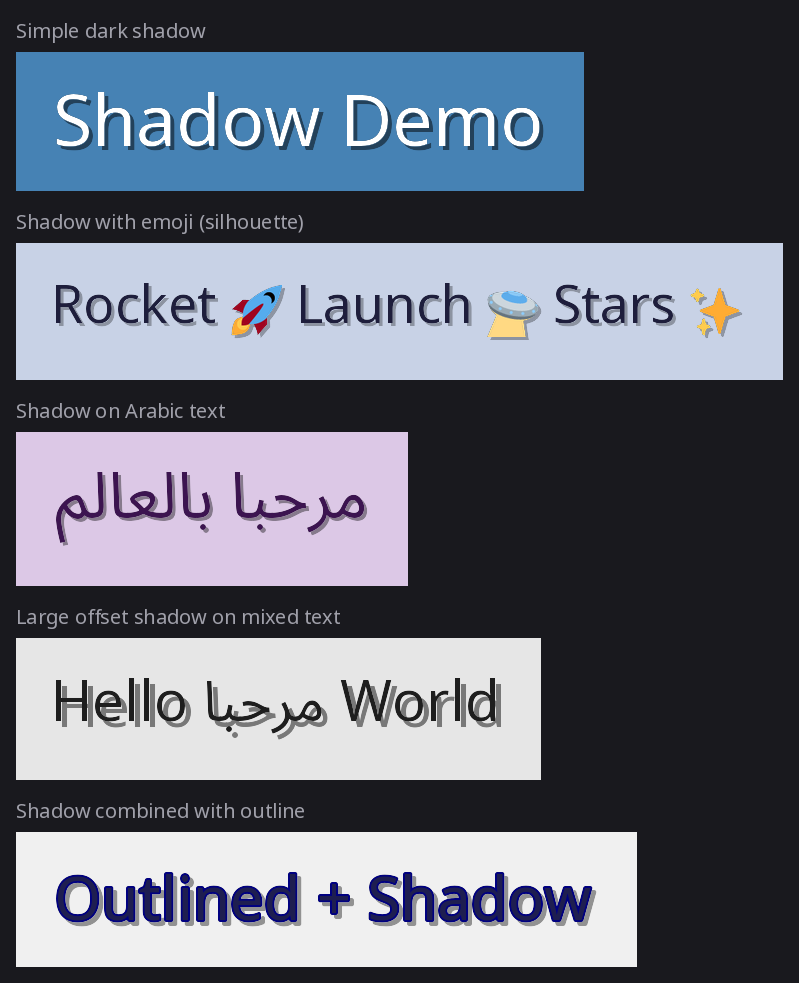
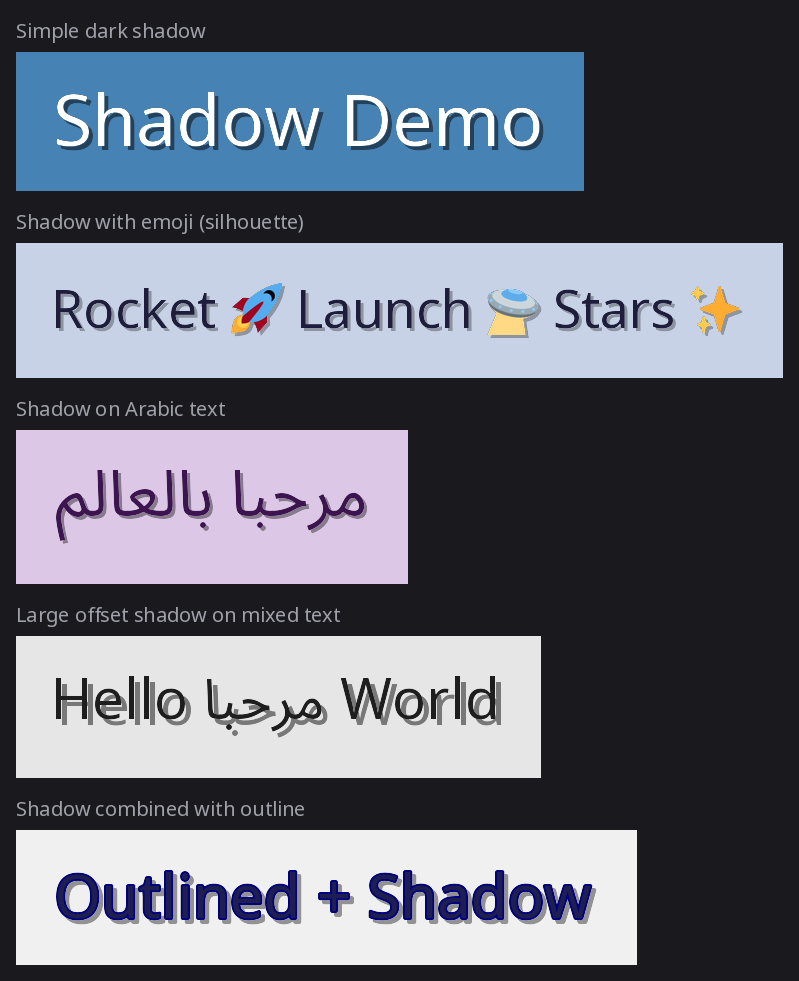
fix(FontManager): center emoji vertically on cap height in rendering

diff --git a/src/fontstack/manager.py b/src/fontstack/manager.py
@@ -1137,11 +1137,19 @@ class FontManager:
                     # already.  No correction needed (oy = 0).
                     has_emoji = bool(EMOJI_REGEX.search(segment.text))
                     if has_emoji:
-                        # vto - asc corrects for Pilmoji's internal offset:
-                        # getmask2 returns offset[1] = asc for spaces-only runs,
-                        # shifting line_y to (font_y + asc).  Subtracting asc
-                        # and adding vto lands the emoji top exactly at y_pos.
-                        emoji_oy = int(visual_top_offset - primary_ascent)
+                        # Pilmoji renders emoji as a square of side `font.size`.
+                        # getmask2 on a spaces-only run returns offset[1] = asc,
+                        # so line_y = font_y + asc = y_pos + (asc - vto) = baseline.
+                        # We want the emoji vertically centered on the cap height
+                        # (y_pos … baseline), so:
+                        #   emoji_top = y_pos + (cap_h - emoji_size) / 2
+                        #             = y_pos - (emoji_size - cap_h) / 2
+                        # where cap_h = asc - vto.
+                        # emoji_oy = emoji_top - line_y
+                        #          = -(cap_h + emoji_size) / 2
+                        cap_h = primary_ascent - visual_top_offset
+                        emoji_size = draw_ctx.size
+                        emoji_oy = -int((cap_h + emoji_size) / 2)
                     else:
                         emoji_oy = 0
 

diff --git a/src/fontstack/__init__.py b/src/fontstack/__init__.py
@@ -1,6 +1,6 @@
 """FontStack - Unicode text rendering with automatic per-character font fallback."""
 
-__version__ = "0.3.6"
+__version__ = "0.3.7"
 
 from fontstack.discovery import scan_font_dir
 from fontstack.draw import draw_text

diff --git a/CHANGELOG.md b/CHANGELOG.md
@@ -5,6 +5,12 @@ All notable changes to this project will be documented in this file.
 The format is based on [Keep a Changelog](https://keepachangelog.com/en/1.1.0/),
 and this project adheres to [Semantic Versioning](https://semver.org/spec/v2.0.0.html).
 
+## [0.3.7] - 2026-05-03
+
+### Fixed
+
+- Emoji are now vertically centered on the cap height rather than top-aligned with it. Pilmoji renders each emoji as a square of side `font.size`, which is typically larger than the cap height (`asc − vto`). Top-aligning placed the emoji above center; the corrected formula offsets the emoji so its vertical midpoint matches the midpoint of the cap height: `emoji_oy = −⌊(cap_height + emoji_size) / 2⌋`.
+
 ## [0.3.6] - 2026-05-03
 
 ### Fixed
